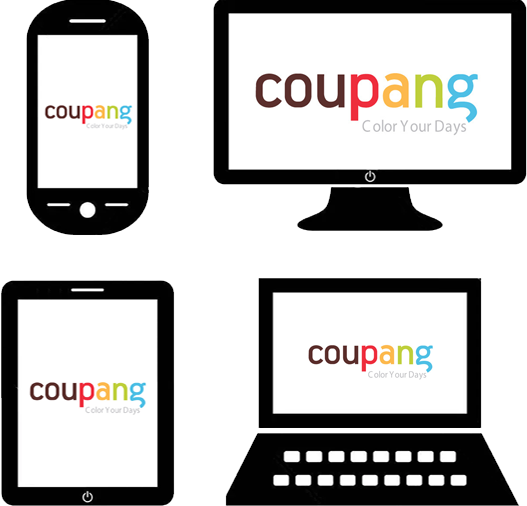
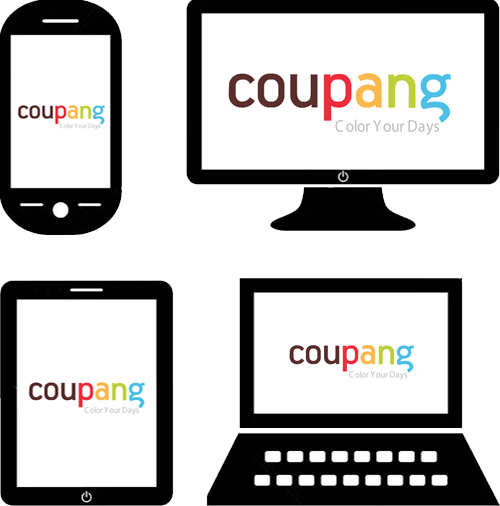
모바일화면 coupang-section 완료

diff --git a/src/components/coupang-section/m-coupang-content/MCoupangContent.tsx b/src/components/coupang-section/m-coupang-content/MCoupangContent.tsx
@@ -6,20 +6,18 @@ type Props = {
   className: string
 }
 
-function CoupangContent(props: Props) {
+function MCoupangContent(props: Props) {
   const { className } = props
 
   return (
     <div className={className}>
-      {coupang.parnassus.map((p, idx) => (
-        <p
-          className='text-2xl mb-5 font-medium leading-loose tracking-[-0.62px]'
-          key={idx}
-          dangerouslySetInnerHTML={{ __html: p }}
-        ></p>
-      ))}
+      <img
+        src='coupang_img.png'
+        alt='coupang monitor'
+        className='w-[80vw] max-w-[29rem] mx-auto my-14'
+      />
 
-      <div className='flex justify-between items-center mt-10 w-full'>
+      <div className='grid grid-cols-2 grid-flow-row w-full justify-items-center gap-x-2 sm:gap-x-4 px-10'>
         <div className='w-full h-full flex flex-col justify-between items-center space-y-5'>
           {coupang.itemList.map(
             (item, idx) =>
@@ -28,11 +26,7 @@ function CoupangContent(props: Props) {
               )
           )}
         </div>
-        <img
-          src='coupang_img.png'
-          alt='coupang monitor'
-          className='w-[29rem] ml-10 mr-10'
-        />
+
         <div className='w-full flex flex-col justify-between items-center space-y-5'>
           {coupang.itemList.map(
             (item, idx) =>
@@ -46,4 +40,4 @@ function CoupangContent(props: Props) {
   )
 }
 
-export default CoupangContent
+export default MCoupangContent

diff --git a/src/components/coupang-section/CoupangSection.tsx b/src/components/coupang-section/CoupangSection.tsx
@@ -2,17 +2,31 @@ import Container from 'common/custom-container/Container'
 import { coupang } from 'data/section-content'
 import React from 'react'
 import CoupangContent from './coupang-content/CoupangContent'
+import MCoupangContent from './m-coupang-content/MCoupangContent'
 
 function CoupangSection() {
   return (
     <Container noFixedHeight>
       <div className='flex flex-col justify-between items-center pt-20 pb-20'>
+        <span className='block lg:hidden text-[#FF9600] font-bold text-center text-lg my-5'>
+          Special Manager
+        </span>
         <h1
-          className='text-5xl font-bold mb-10 text-center leading-relaxed'
+          className='text-5xl font-bold mb-10 text-center leading-relaxed hidden lg:block'
           dangerouslySetInnerHTML={{ __html: coupang.title }}
         ></h1>
 
-        <CoupangContent />
+        <div className='lg:hidden'>
+          <h3 className='text-center text-2xl mb-3'>
+            쿠팡셀러라면 꼭 필요한 통합솔루션
+          </h3>
+          <h4 className='text-center text-3xl font-bold'>
+            <span className='text-[#FF9600]'>모두편해</span>를 소개합니다
+          </h4>
+        </div>
+
+        <CoupangContent className='hidden lg:block' />
+        <MCoupangContent className='lg:hidden' />
       </div>
     </Container>
   )

diff --git a/src/components/coupang-section/item-box/CoupangItemBox.tsx b/src/components/coupang-section/item-box/CoupangItemBox.tsx
@@ -9,14 +9,13 @@ function CoupangItemBox(props: Props) {
   const { icon, title } = props
 
   return (
-    <div className='flex justify-around items-center rounded-[50px] border bg-white py-5 px-5 w-full border-[#BDD2E3] hover:-translate-x-1 hover:-translate-y-1 cursor-pointer'>
+    <div className='flex justify-around items-center rounded-[50px] border bg-white border-[#BDD2E3] hover:-translate-x-1 hover:-translate-y-1 cursor-pointer p-3 lg:p-5 w-full'>
       <img
         src={icon}
         alt='document'
-        className='mr-2 object-contain'
-        width={40}
+        className='mr-2 object-contain w-[4vw] lg:w-[40px]'
       />
-      <span className='text-2xl'>{title}</span>
+      <h3 className='text-[3vw] sm:text-[2.5vw] lg:text-2xl'>{title}</h3>
     </div>
   )
 }

diff --git a/src/components/m-operation-section/MOperationSection.tsx b/src/components/m-operation-section/MOperationSection.tsx
@@ -3,13 +3,13 @@ import React from 'react'
 
 function MOperationSection() {
   return (
-    <div className='grid grid-rows-2 grid-flow-col justify-center gap-x-5 gap-y-10 sm:gap-x-10'>
+    <div className='grid grid-rows-2 grid-flow-col justify-center gap-x-5 gap-y-10 sm:gap-x-10 lg:hidden pb-5'>
       {mOperation.itemList.map((item, idx) => (
         <div key={idx} className='flex flex-col items-center w-fit'>
           <img
             src={item.image}
             alt={item.alt}
-            className='w-[90%] sm:w-[140px] object-contain'
+            className='w-[90%] object-contain'
           />
           <div
             dangerouslySetInnerHTML={{ __html: item.text }}

diff --git a/src/components/m-ees-section/MEesSection.tsx b/src/components/m-ees-section/MEesSection.tsx
@@ -17,7 +17,7 @@ function MEesSection(props: Props) {
         backgroundPosition: 'bottom left',
         backgroundColor: '#12121C',
       }}
-      className={`flex justify-center items-center h-[400px] relative ${className}`}
+      className={`flex justify-center items-center min-h-[400px] relative ${className}`}
     >
       <div className='flex justify-center items-center absolute left-[48vw] md:left-[250px] pr-5'>
         <div className='text-white text-left'>

diff --git a/src/components/operation-section/OperationSection.tsx b/src/components/operation-section/OperationSection.tsx
@@ -6,7 +6,7 @@ import React from 'react'
 function OperationSection() {
   return (
     <Container flexDirection='column'>
-      <div>
+      <div className='pt-10 lg:py-0'>
         <span className='block lg:hidden text-[#FF9600] font-bold text-center text-lg my-5'>
           Special Solution
         </span>

diff --git a/src/components/charge-infomation/basic-service/ChargeInfoBasicService.tsx b/src/components/charge-infomation/basic-service/ChargeInfoBasicService.tsx
@@ -5,7 +5,7 @@ function ChargeInfoBasicService() {
   return (
     <div>
       <h2 className='text-4xl font-bold mb-20 text-center'>기본제공서비스</h2>
-      <CoupangContent />
+      <CoupangContent className='hidden lg:block' />
     </div>
   )
 }
